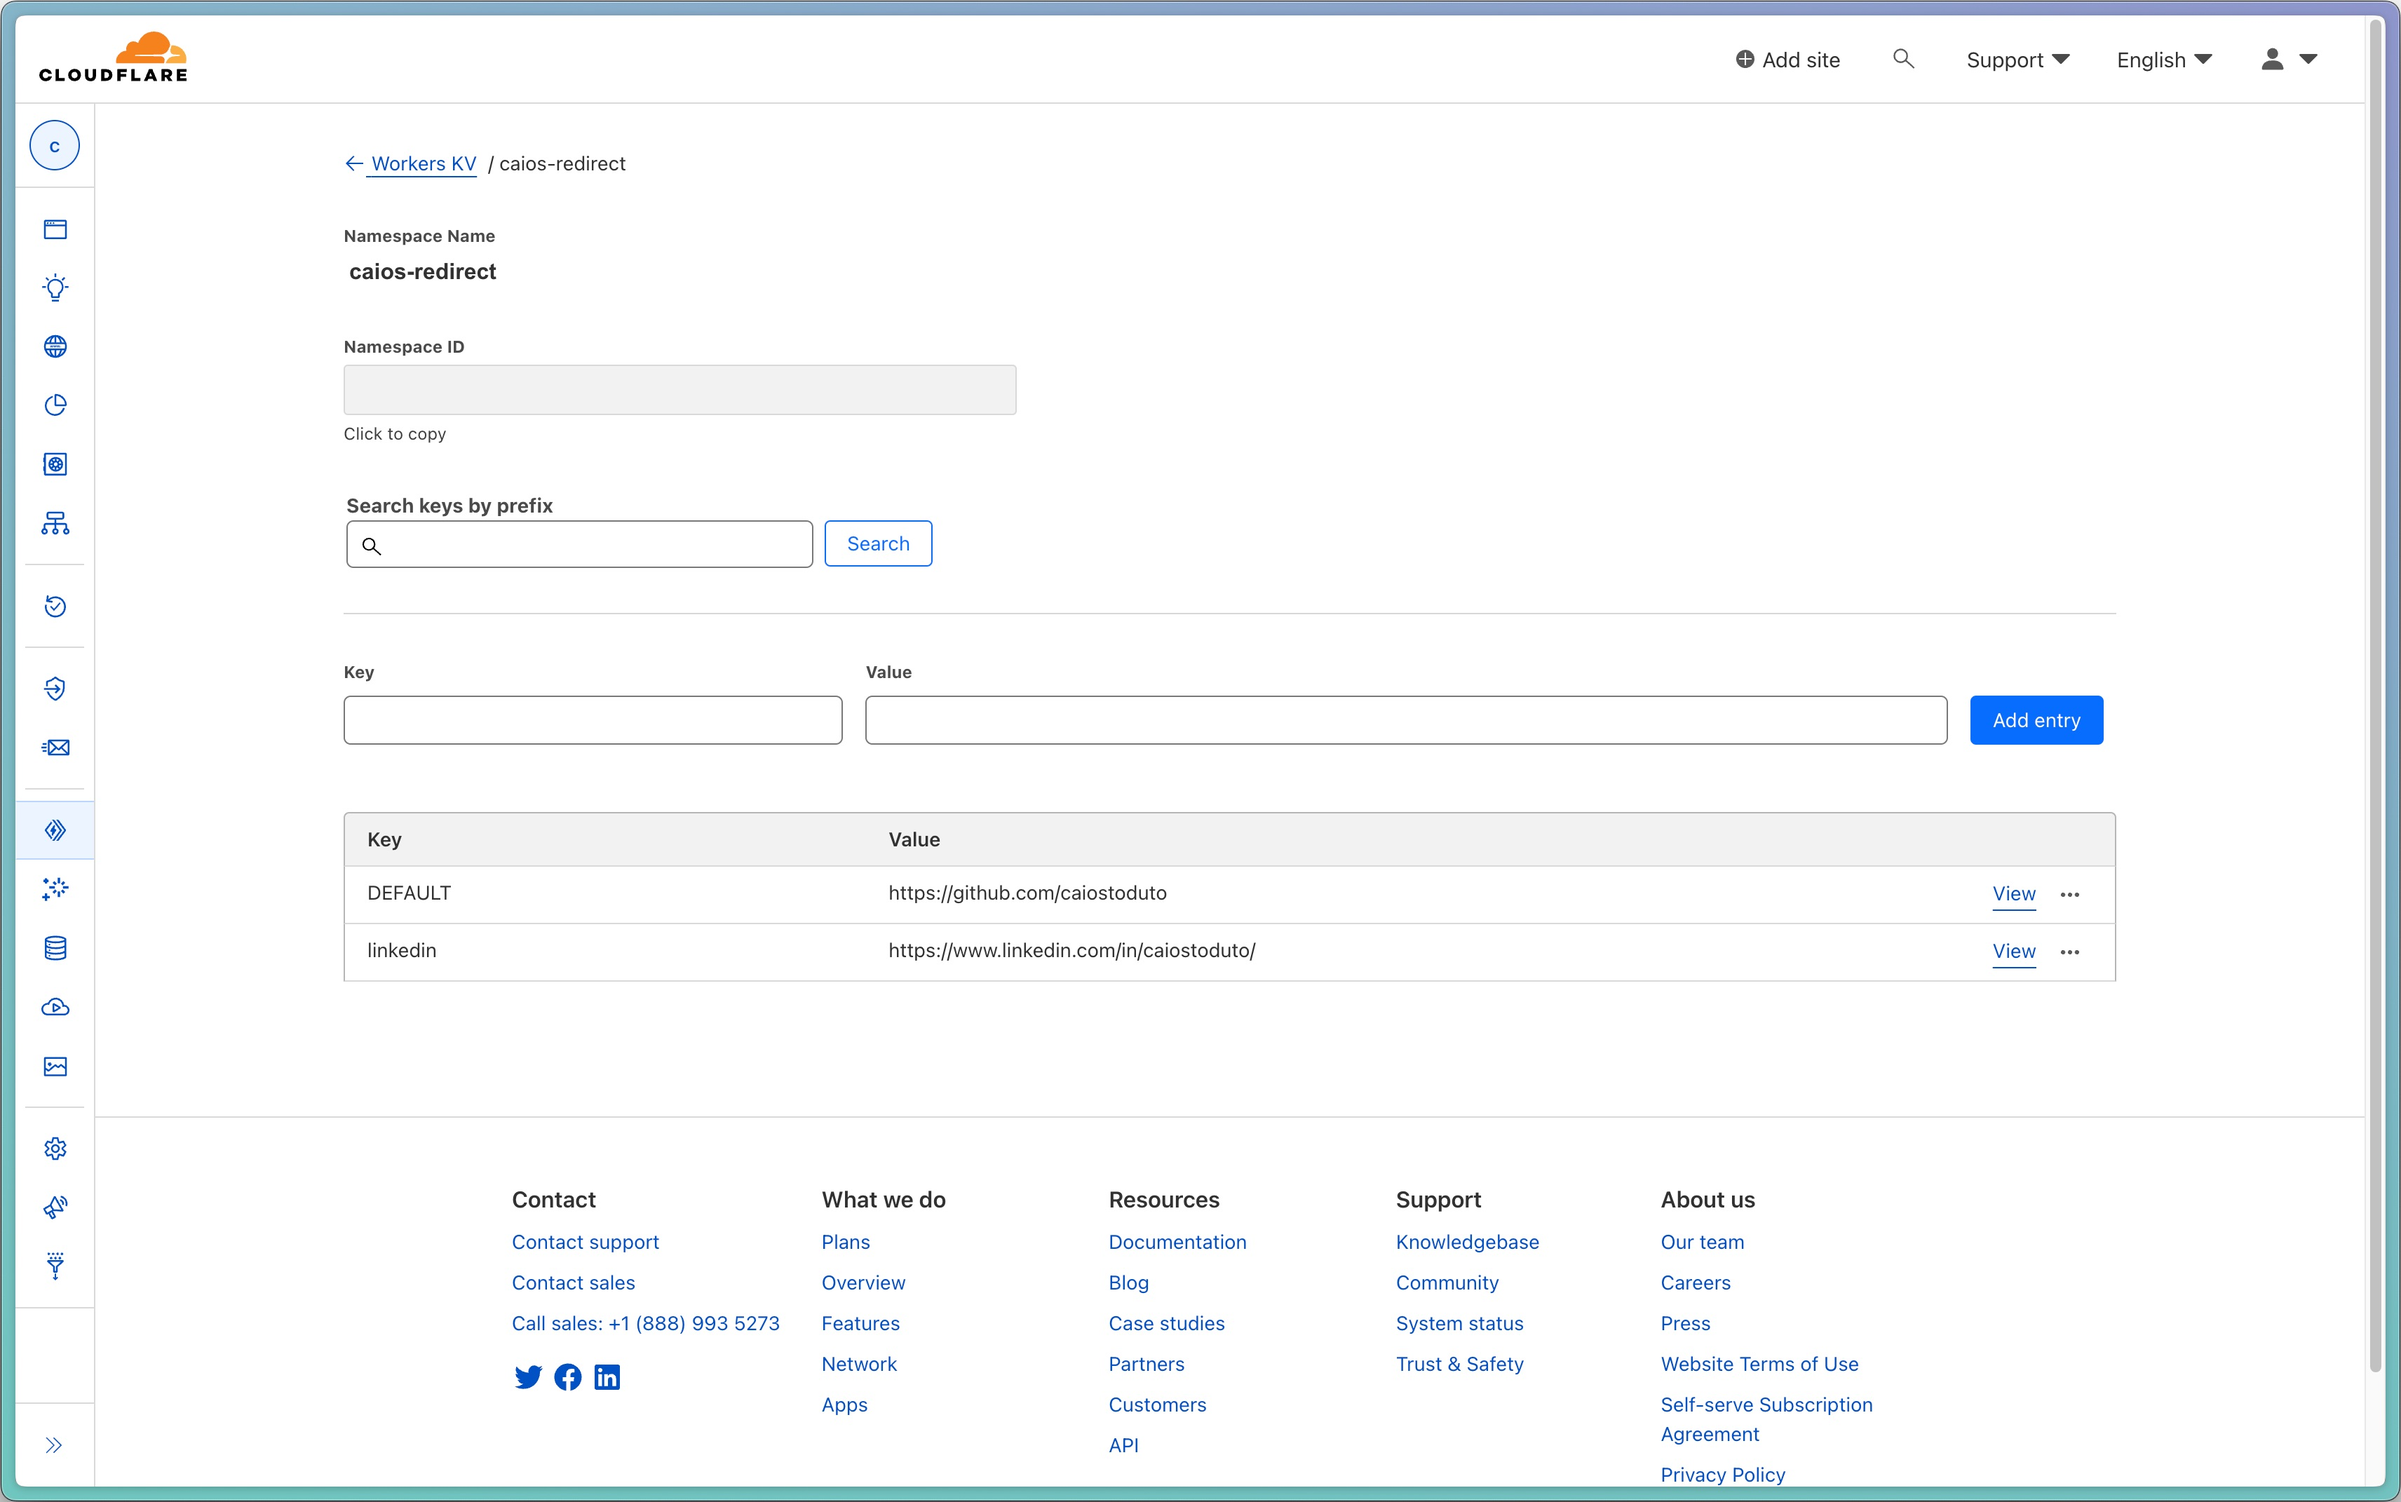
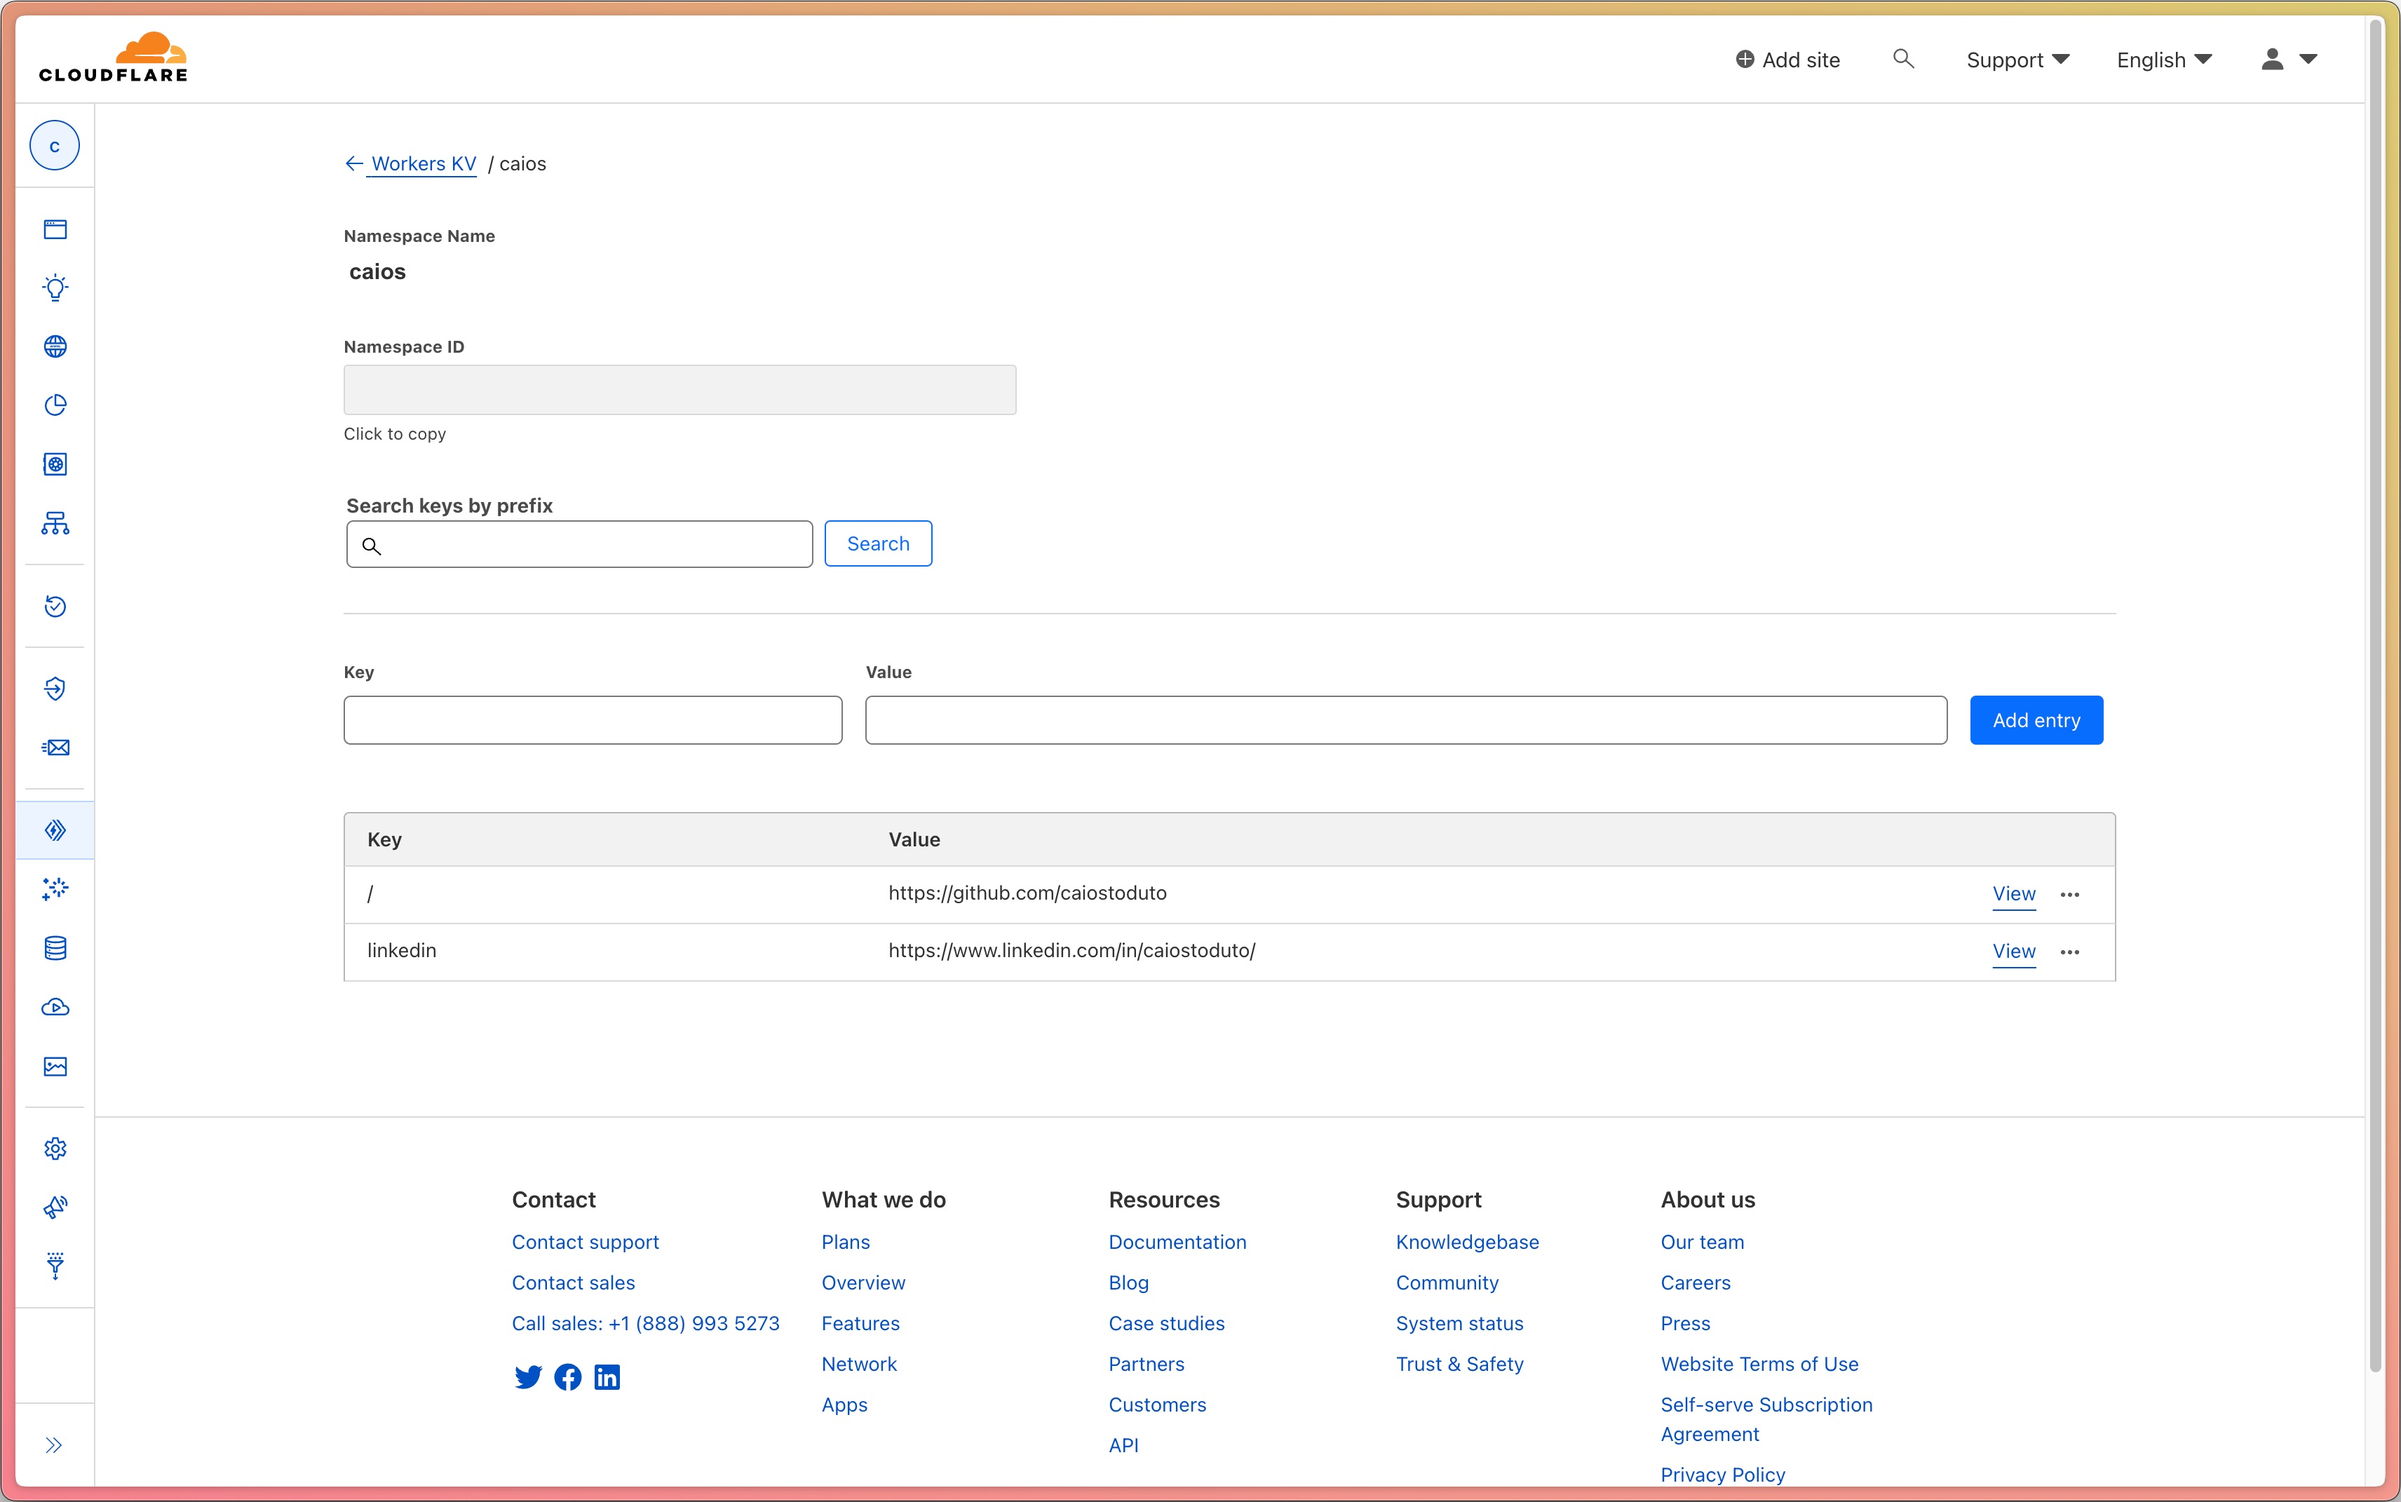
docs: update README.md

Changed region(s): [[0.0, 0.0, 1.0, 1.0], [0.1562, 0.5854, 0.1875, 0.6162]]

diff --git a/README.md b/README.md
@@ -1,4 +1,4 @@
-My Personal Website + URL Shortner using [Next.js](https://nextjs.org/), Cloudflare [Worker](https://workers.cloudflare.com/), [Pages](https://pages.cloudflare.com/) & [KVNamespace](https://developers.cloudflare.com/kv/learning/kv-namespaces/)
+My Personal Website + URL Shortner using [Next.js](https://nextjs.org/), [Cloudflare Pages](https://pages.cloudflare.com/) & [KVNamespace](https://developers.cloudflare.com/kv/learning/kv-namespaces/)
 
 ## Features
 
@@ -22,57 +22,22 @@ $ cd caios.pages.dev
 
 2. Install dependencies
 ```bash
-$ pnpm web install
-$ pnpm worker install
+$ pnpm install
 ```
 
-### Worker
-
-3. Create a new Cloudflare KVNamespace
-
+3. [Create a new Cloudflare KVNamespace](https://developers.cloudflare.com/kv/get-started/#3-create-a-kv-namespace)
 ```bash
-$ pnpx wrangler kv:namespace create REDIRECT
-# Output:
-...
-Add the following to your configuration file in your kv_namespaces array:
-{ binding = "REDIRECT", id = "eba0861323604a19a026ff38e0d65b8e" }
+$ pnpm wrangler kv:namespace create REDIRECT
 ```
 
-4. Replace '***' in the @app/worker/wrangler.toml file with the KVNamespace id from step 3
-
-```toml
-kv_namespaces = [
-  { binding = "REDIRECT", id = "eba0861323604a19a026ff38e0d65b8e" }
-]
-```
-
-5. Deploy the worker
-
+4. Deploy the worker
 ```bash
-$ pnpx worker run deploy
+$ pnpx run pages:deploy
 ```
+
+5. [Bind your KV namespace to your Pages Function](https://developers.cloudflare.com/pages/functions/bindings/#kv-namespaces)
 
 6. Add your redirect routes to the KVNamespace *(suggest using [Cloudflare KVNamespace Dashboard](https://dash.cloudflare.com/))*\
-**must include 'DEFAULT' route**
+**must include '/' (default) route**
 
 ![Image from Cloudflare Pages Dashboard setting kv routes](https://github.com/caiostoduto/caios.pages.dev/blob/main/docs/images/kv.jpeg)
-
-### Website
-
-7. [Create a new Cloudflare Pages project](https://developers.cloudflare.com/pages/framework-guides/deploy-a-nextjs-site/#deploy-your-application-to-cloudflare-pages-1) *(suggest deploy using github/gitlab)*, and don't forget to set **nodejs_compat** compatibility flag.
-
-![Image from Cloudflare Pages Dashboard setting compatibility flag](https://github.com/caiostoduto/caios.pages.dev/blob/main/docs/images/compatibility_flag.jpeg)
-
-8. [Add the following environment variable to the project](https://developers.cloudflare.com/workers/configuration/environment-variables/#add-environment-variables-via-the-dashboard)
-
-| Name | Example Value |
-| --- | --- |
-| NEXT_PUBLIC_REDIRECT_URL | https://caios.caiostoduto.workers.dev/ |
-
-*NEXT_PUBLIC_REDIRECT_URL is your Cloudflare Worker URL from step 6*
-
-![Image from Cloudflare Pages Dashboard setting environment variables](https://github.com/caiostoduto/caios.pages.dev/blob/main/docs/images/env_vars.jpeg)
-
-9. [Retry your latest deploy](https://dash.cloudflare.com/)
-
-![Image from Cloudflare Pages Dashboard retrying latest deploy](https://github.com/caiostoduto/caios.pages.dev/blob/main/docs/images/retry_deploy.jpeg)
